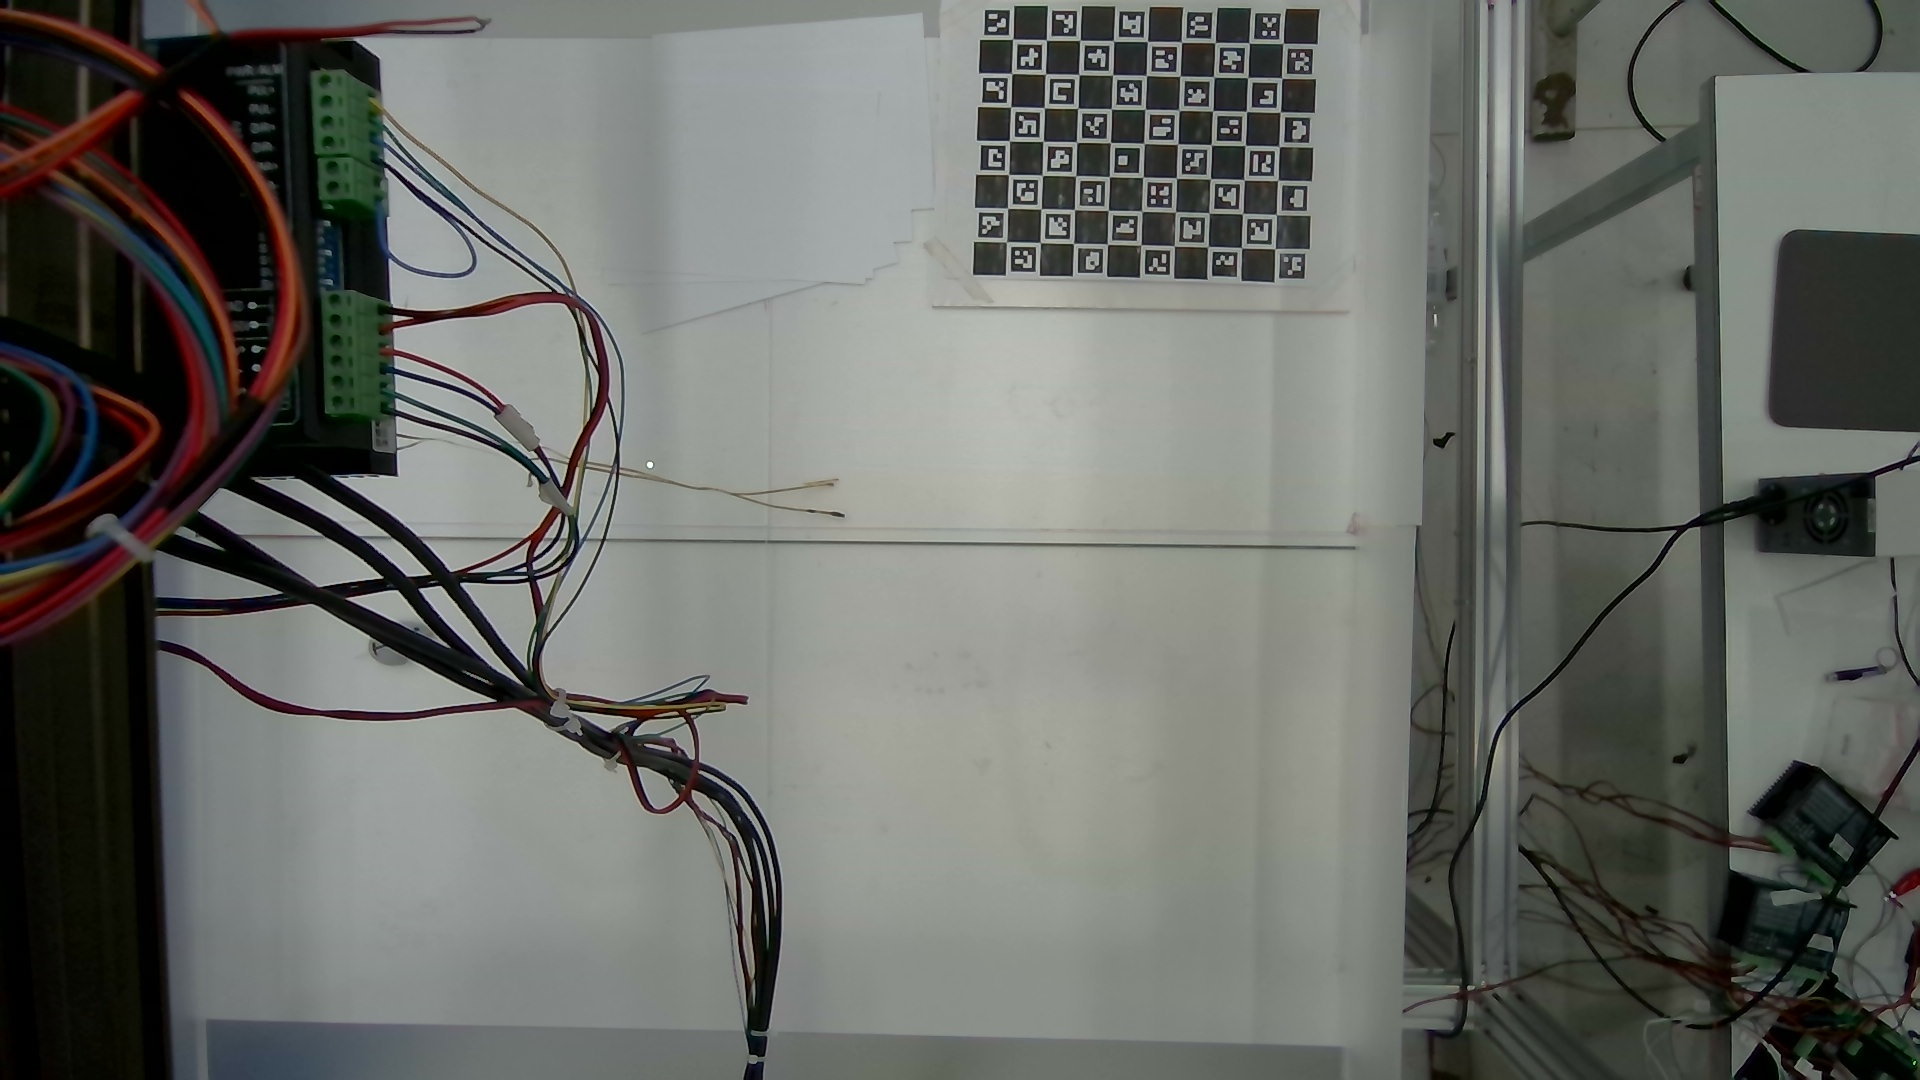
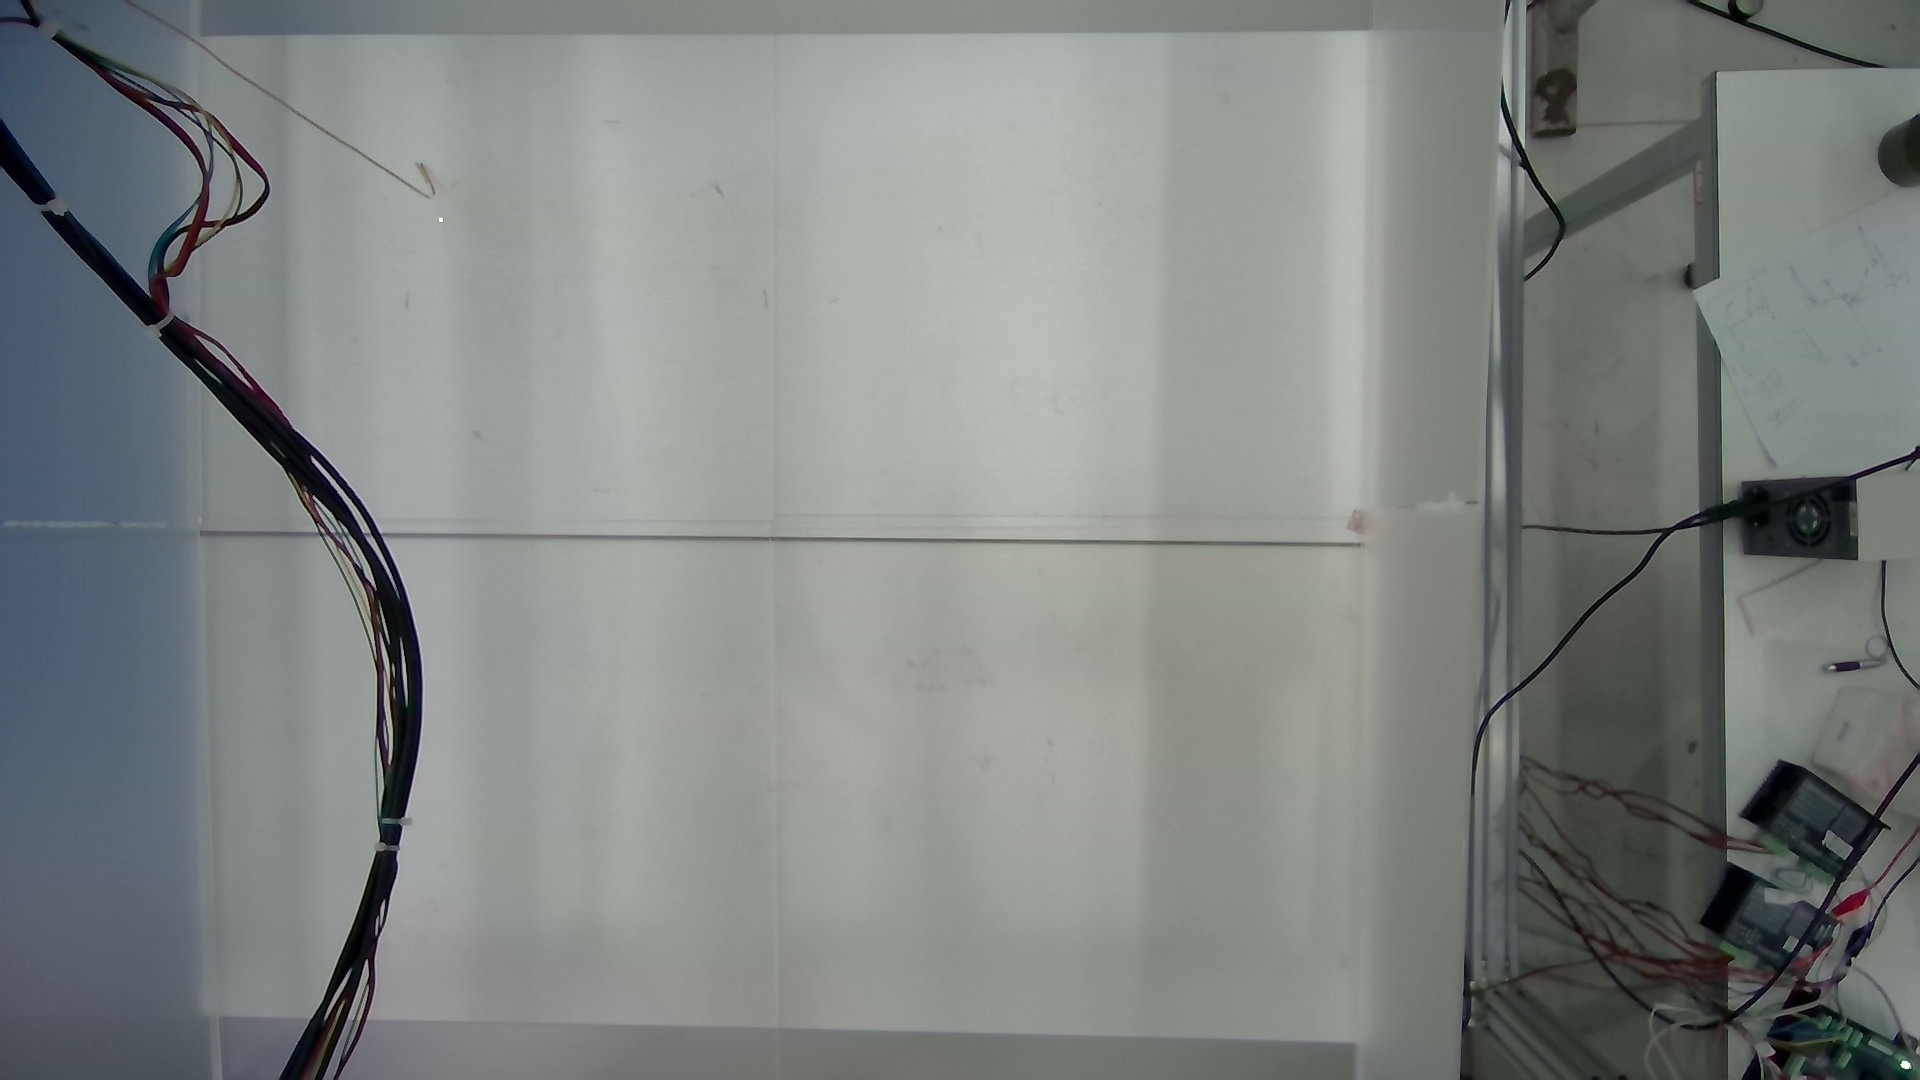
add gohome

diff --git a/YQTest/MoveTestUtils/Homejason.py b/YQTest/MoveTestUtils/Homejason.py
@@ -1,0 +1,151 @@
+from ctypes import *
+import ctypes
+#import numpy as np
+import struct 
+import time
+import math
+from ctypes import c_short, c_long, c_ulong, POINTER
+
+# MC_GetSts(short nAxisNum,long *pSts,short nCount=1,unsigned long *pClock=NULL
+# 定义状态位标志
+AXIS_STATUS_ESTOP = 0x00000001          # 急停
+AXIS_STATUS_POS_SOFT_LIMIT = 0x00000004 # 正软限位触发标志
+AXIS_STATUS_NEG_SOFT_LIMIT = 0x00000008 # 负软位触发标志
+AXIS_STATUS_FOLLOW_ERR = 0x00000010     # 误差过大
+AXIS_STATUS_POS_HARD_LIMIT = 0x00000020 # 正硬限位触发标志
+AXIS_STATUS_NEG_HARD_LIMIT = 0x00000040 # 负硬限位触发标志
+AXIS_STATUS_IO_SMS_STOP = 0x00000080    # 保留
+AXIS_STATUS_IO_EMG_STOP = 0x00000100    # 保留
+AXIS_STATUS_RUNNING = 0x00000400        # 规划运动标志
+AXIS_STATUS_ARRIVE = 0x00000800         # 电机到位
+AXIS_STATUS_HOME_RUNNING = 0x00001000   # 正在回零
+AXIS_STATUS_HOME_SUCESS = 0x00002000    # 回零成功
+AXIS_STATUS_HOME_SWITCH = 0x00004000    # 零位信号
+AXIS_STATUS_GEAR_START = 0x00010000     # 电子齿轮开始啮合
+AXIS_STATUS_GEAR_FINISH = 0x00020000    # 电子齿轮完成啮合
+# 状态位对应的描述
+STATUS_DESCRIPTIONS = {
+    AXIS_STATUS_ESTOP: "急停",
+    AXIS_STATUS_POS_SOFT_LIMIT: "正软限位触发标志",
+    AXIS_STATUS_NEG_SOFT_LIMIT: "负软位触发标志",
+    AXIS_STATUS_FOLLOW_ERR: "误差过大",
+    AXIS_STATUS_POS_HARD_LIMIT: "正硬限位触发标志",
+    AXIS_STATUS_NEG_HARD_LIMIT: "负硬限位触发标志",
+    AXIS_STATUS_IO_SMS_STOP: "保留：SMS 停止",
+    AXIS_STATUS_IO_EMG_STOP: "保留：紧急停止",
+    AXIS_STATUS_RUNNING: "规划运动标志",
+    AXIS_STATUS_ARRIVE: "电机到位",
+    AXIS_STATUS_HOME_RUNNING: "正在回零",
+    AXIS_STATUS_HOME_SUCESS: "回零成功",
+    AXIS_STATUS_HOME_SWITCH: "零位信号",
+    AXIS_STATUS_GEAR_START: "电子齿轮开始啮合",
+    AXIS_STATUS_GEAR_FINISH: "电子齿轮完成啮合",
+}
+def parse_axis_status(status):
+    """
+    解析 32 位轴状态字为具体描述。
+    
+    :param status: 32 位状态字 (int)
+    :return: 各状态对应的描述列表
+    """
+    results = []
+    successFlag = False
+    for bit, description in STATUS_DESCRIPTIONS.items():
+        if status & AXIS_STATUS_HOME_SUCESS:
+            successFlag = True
+        if status & bit:  # 检查当前位是否被设置
+            results.append(description)
+    return results, successFlag
+
+def GoHome():
+    
+    dll = CDLL('F:\yq\code\PythonHomeProject\GAS.dll')
+    print(dll)
+
+    dll.GA_StartDebugLog(1)
+
+    print('测试开始')
+    a=dll.GA_OpenByIP(b'192.168.0.2',b'192.168.0.1',0,0)
+    #a=dll.GA_Open(0,"192.168.0.200")
+    print('打开板卡GA_Open返回值:',a)
+
+    a=dll. GA_Reset()
+    print('复位板卡GA_Reset返回值:',a)
+    a=dll.GA_AxisOn(1)
+    a=dll.GA_AxisOn(2)
+    # a=self.dll.GA_AxisOn(2)
+    # a=self.dll.GA_AxisOn(3)
+
+
+
+    #启动轴1回零（注意如果某一次回零失败，需要GA_HomeStop停止回零，否则轴不能移动）
+    # 准备参数
+    nAxisNum = c_short(1)  # 示例轴号
+    nCount = c_short(2)    # 查询的轴状态数量
+
+    # 分配内存给输出参数
+    pSts = (c_long * nCount.value)()  # 创建长整型数组存储状态
+    pClock = ctypes.POINTER(c_ulong)()
+
+
+
+
+
+    #设置回零参数
+    #第1个参数轴号，1代表第一个轴
+    #第2个参数回零模式，1代表Home原点回零
+    #第3个参数回零方向，0代表负向回零，1代表正向回零
+    #第4个参数回零偏移，代表回零完成后，再走一个固定偏移量作为零点，单位脉冲，通常为0
+    #第5个参数回零快移速度，单位脉冲/毫秒，可以为小数，取值范围0.01~200，通常为5~50
+    #第6个参数回零定位速度，单位脉冲/毫秒，可以为小数，取值范围0.01~200，通常为1~5
+    #第7个参数回零Index速度，单位脉冲/毫秒，通常为1
+    #第8个参数回零加速度，单位脉冲/毫秒/毫秒，取值范围0.01~5，通常为1，可以为小数
+    # a=dll. GA_HomeSetPrmSingle(axis,1,0,0,c_double(1.0),c_double(1.0),c_double(1.0),c_double(0.1),0,0,0)
+
+
+    speed = 3
+    axisX = 1
+    a=dll.GA_HomeSetPrmSingle(axisX,1,0,0,c_double(speed),c_double(1.0),c_double(1.0),c_double(0.1),0,0,0)
+    a=dll. GA_HomeStart(axisX)
+    axisY = 2
+    a=dll.GA_HomeSetPrmSingle(axisY,1,1,0,c_double(speed),c_double(1.0),c_double(1.0),c_double(0.1),0,0,0)
+    a=dll. GA_HomeStart(axisY)
+    while 1:
+        dll.GA_GetSts(nAxisNum,pSts,nCount,pClock)
+        pSts_value = 0x00000000
+        ct = 0
+        nums = 2
+        for i in range(nums):
+            axisNum = i + 1
+            pSts_value = pSts[i]
+            parsed_status, successFlag = parse_axis_status(pSts_value)
+            if successFlag:
+                ct += 1
+            print(f"{axisNum}轴状态字: {bin(pSts_value)}")
+            print("解析结果:")
+            for desc in parsed_status:
+                print(f"{axisNum}- {desc}")
+        if ct == nums:
+            print("all successful")
+            break
+        time.sleep(0.5)
+        print()
+        # print('打开输出口Y5')
+        # a=dll.GA_SetExtDoBit(0, 5, 1)
+        # print('延时1秒钟')
+        # time.sleep(1)
+        # print('关闭输出口Y5')
+        # a = dll.GA_SetExtDoBit(0, 5, 0)
+        # print('延时1秒钟')
+        # time.sleep(1)
+
+        # dPrfPos = c_double(0)
+        # a = dll.GA_GetPrfPos(1, byref(dPrfPos),1)
+
+        # dValue = dPrfPos
+        # print('获取轴1脉冲位置，返回值：',a,'获取值：%.3f',dValue)
+
+    a=dll.GA_Close()
+    print('测试结束')
+if __name__ == "__main__":
+    GoHome()

diff --git a/YQTest/SaveVideo.py b/YQTest/SaveVideo.py
@@ -1,0 +1,83 @@
+import cv2
+import threading
+from datetime import datetime
+
+class CameraRecorder(threading.Thread):
+    """
+    摄像头录像线程类
+    """
+    def __init__(self, camera_index, output_file, resolution=(1920, 1080), fps=30):
+        super().__init__()
+        self.camera_index = camera_index
+        self.output_file = output_file
+        self.resolution = resolution
+        self.fps = fps
+        self.running = True  # 控制线程运行的标志
+
+    def run(self):
+        """
+        启动摄像头录像
+        """
+        # 初始化摄像头
+        camera = cv2.VideoCapture(self.camera_index)
+        camera.set(cv2.CAP_PROP_FRAME_WIDTH, self.resolution[0])
+        camera.set(cv2.CAP_PROP_FRAME_HEIGHT, self.resolution[1])
+
+        # 检查摄像头是否成功打开
+        if not camera.isOpened():
+            print(f"无法打开摄像头 {self.camera_index}")
+            return
+
+        # 初始化视频保存
+        fourcc = cv2.VideoWriter_fourcc(*'mp4v')
+        video_writer = cv2.VideoWriter(self.output_file, fourcc, self.fps, self.resolution)
+
+        print(f"开始录像: {self.output_file}")
+        while self.running:
+            ret, frame = camera.read()
+            if ret:
+                video_writer.write(frame)  # 保存帧
+                cv2.imshow(f"Camera {self.camera_index}", frame)  # 显示画面
+
+            # 按下 'q' 键停止录像
+            if cv2.waitKey(1) & 0xFF == ord('q'):
+                self.running = False
+
+        # 释放资源
+        camera.release()
+        video_writer.release()
+        cv2.destroyAllWindows()
+        print(f"录像结束: {self.output_file}")
+
+    def stop(self):
+        """
+        停止录像线程
+        """
+        self.running = False
+
+
+# 获取当前时间戳作为文件名前缀
+timestamp = datetime.now().strftime("%Y%m%d_%H%M%S")
+
+# 创建录像线程
+camera_1_recorder = CameraRecorder(0, f"{timestamp}_camera1.mp4")
+camera_2_recorder = CameraRecorder(2, f"{timestamp}_camera2.mp4")
+
+# 启动录像线程
+camera_1_recorder.start()
+camera_2_recorder.start()
+
+try:
+    # 等待线程完成
+    camera_1_recorder.join()
+    camera_2_recorder.join()
+except KeyboardInterrupt:
+    print("用户中断，停止录像...")
+    camera_1_recorder.stop()
+    camera_2_recorder.stop()
+
+    # 等待线程安全退出
+    camera_1_recorder.join()
+    camera_2_recorder.join()
+
+print("所有录像已结束，摄像头资源已释放。")

diff --git a/YQTest/MoveTestUtils/MoveXY.py b/YQTest/MoveTestUtils/MoveXY.py
@@ -1,0 +1,56 @@
+from ctypes import *
+import ctypes
+#import numpy as np
+import struct 
+import time
+import math
+
+def MoveXY():
+    
+    dll = CDLL(r"F:\yq\code\Live_Tracking\YQTest\GAS.dll")
+    print(dll)
+
+    dll.GA_StartDebugLog(1)
+
+    print('测试开始')
+    a=dll.GA_OpenByIP(b'192.168.0.2',b'192.168.0.1',0,0)
+    #a=dll.GA_Open(0,"192.168.0.200")
+    #a=dll.GA_Open(1,"COM1")
+    print('打开板卡GA_Open返回值:',a)
+
+    a=dll. GA_Reset()
+    print('复位板卡GA_Reset返回值:',a)
+    dPrfPos = c_double(0.0)
+    a=dll.GA_AxisOn(1)
+    a=dll.GA_AxisOn(2)
+    a=dll.GA_AxisOn(3)
+    def move(axis, Value, speed):
+            
+        lMask = (0x0001 << (axis - 1))  # 计算掩码值
+        lOption = 0  # 根据函数要求设置此参数
+        # 软件stop 
+        a = dll.GA_Stop(lMask, lOption)
+
+        a=dll.GA_PrfTrap(axis)
+        print(f'设置轴{axis}进入点位模式，返回值:',a)
+
+        a=dll.GA_SetTrapPrmSingle(axis,c_double(1.0),c_double(1.0),c_double(0.0),0)
+        print(f'设置轴{axis}点位运动参数，返回值:',a)
+        a=dll.GA_SetPos(axis,Value)
+        print(f'设置轴{axis}运动目标位置为{Value}脉冲的位置，返回值:',a)
+        a=dll.GA_SetVel(axis,c_double(speed))
+        print(f'设置轴{axis}运动速度为{speed}脉冲/毫秒，返回值:',a)
+        a=dll.GA_Update(2**(axis - 1))
+    # test axis x
+    axis = 1;speed = 5; Value = 80000;
+    move(axis, Value, speed)
+
+    # test axis y
+
+    axis = 2;speed = 5; Value = -100000;
+    move(axis, Value, speed)
+    
+    a=dll.GA_Close()
+    print('测试结束')
+if __name__ == "__main__":
+    MoveXY()

diff --git a/YQTest/PyQtMiceModel_XYZ_1122.py b/YQTest/PyQtMiceModel_XYZ_1122.py
@@ -219,8 +219,8 @@ class RealTimeDetectionApp(QMainWindow):
             
             self.DetectPoint()
         else:
-            self.poseinit = [647,  459]
-            self.poseinit2 = [1008,  476]
+            self.poseinit = [441,  220]
+            self.poseinit2 = [796,  233]
         self.frameCount = 0
         #### camera index
 
@@ -785,6 +785,11 @@ class RealTimeDetectionApp(QMainWindow):
         # self.sess, self.inputs, self.outputs = setup_pose_prediction(self.dlc_cfg, allow_growth=False)
         pass
 if __name__ == "__main__":
+    # from YQTest.MoveTestUtils.Homejason import GoHome
+    # from YQTest.MoveTestUtils.MoveXY import MoveXY
+    # GoHome()
+    # MoveXY() 
+
     app = QApplication(sys.argv)
     window = RealTimeDetectionApp()
     window.show()
